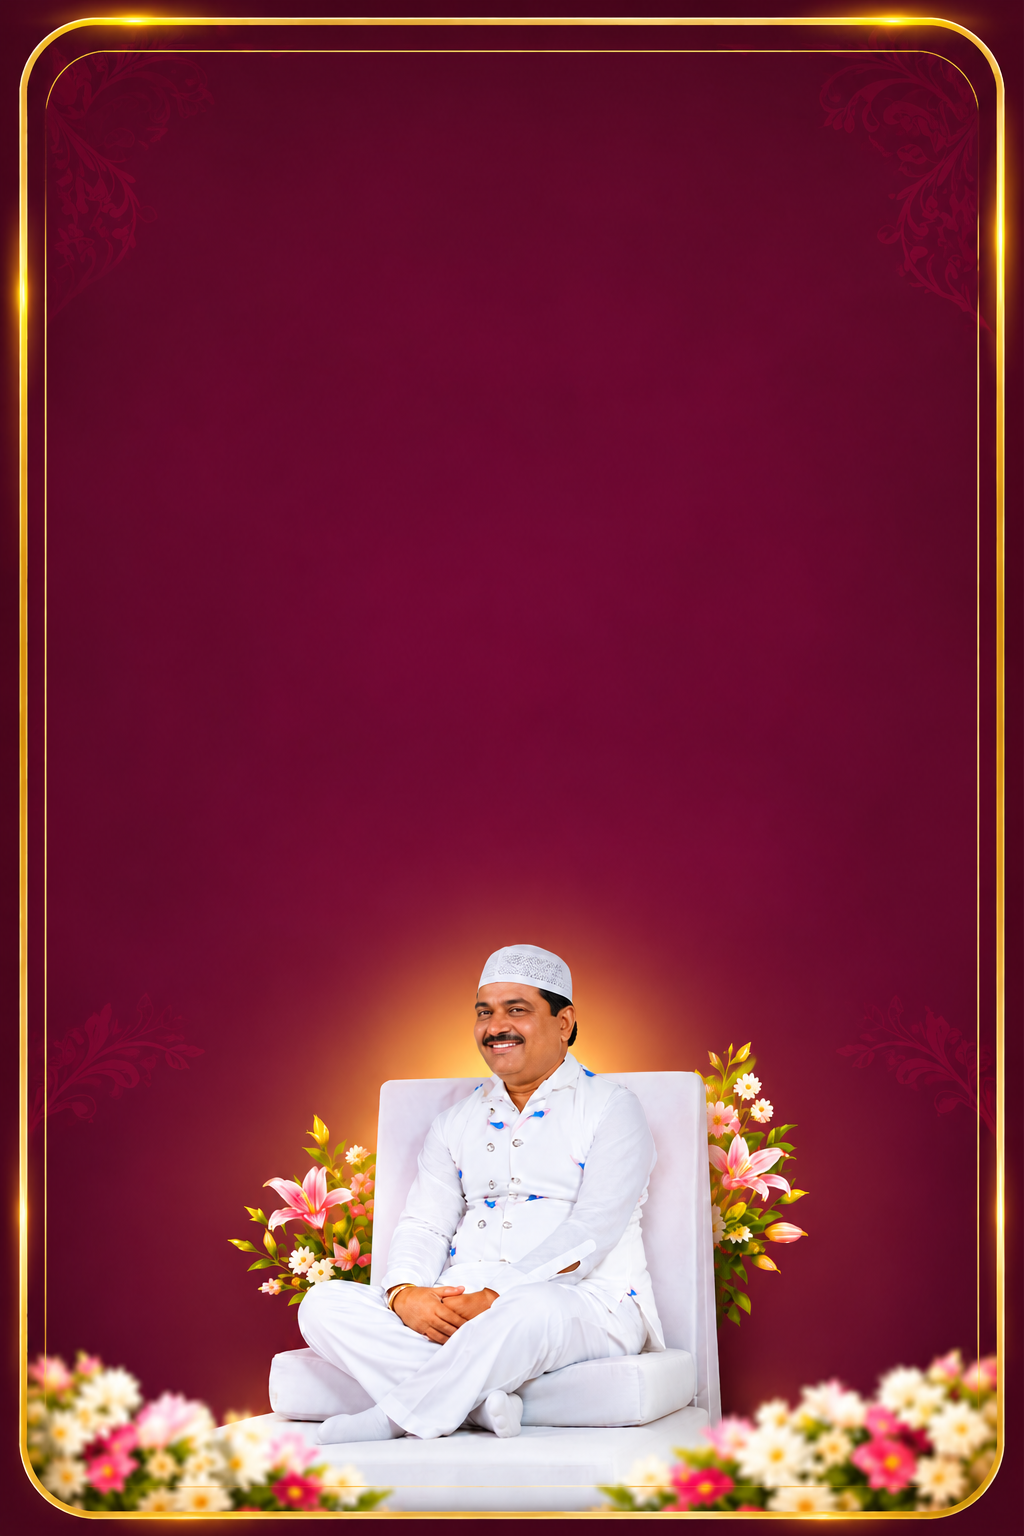
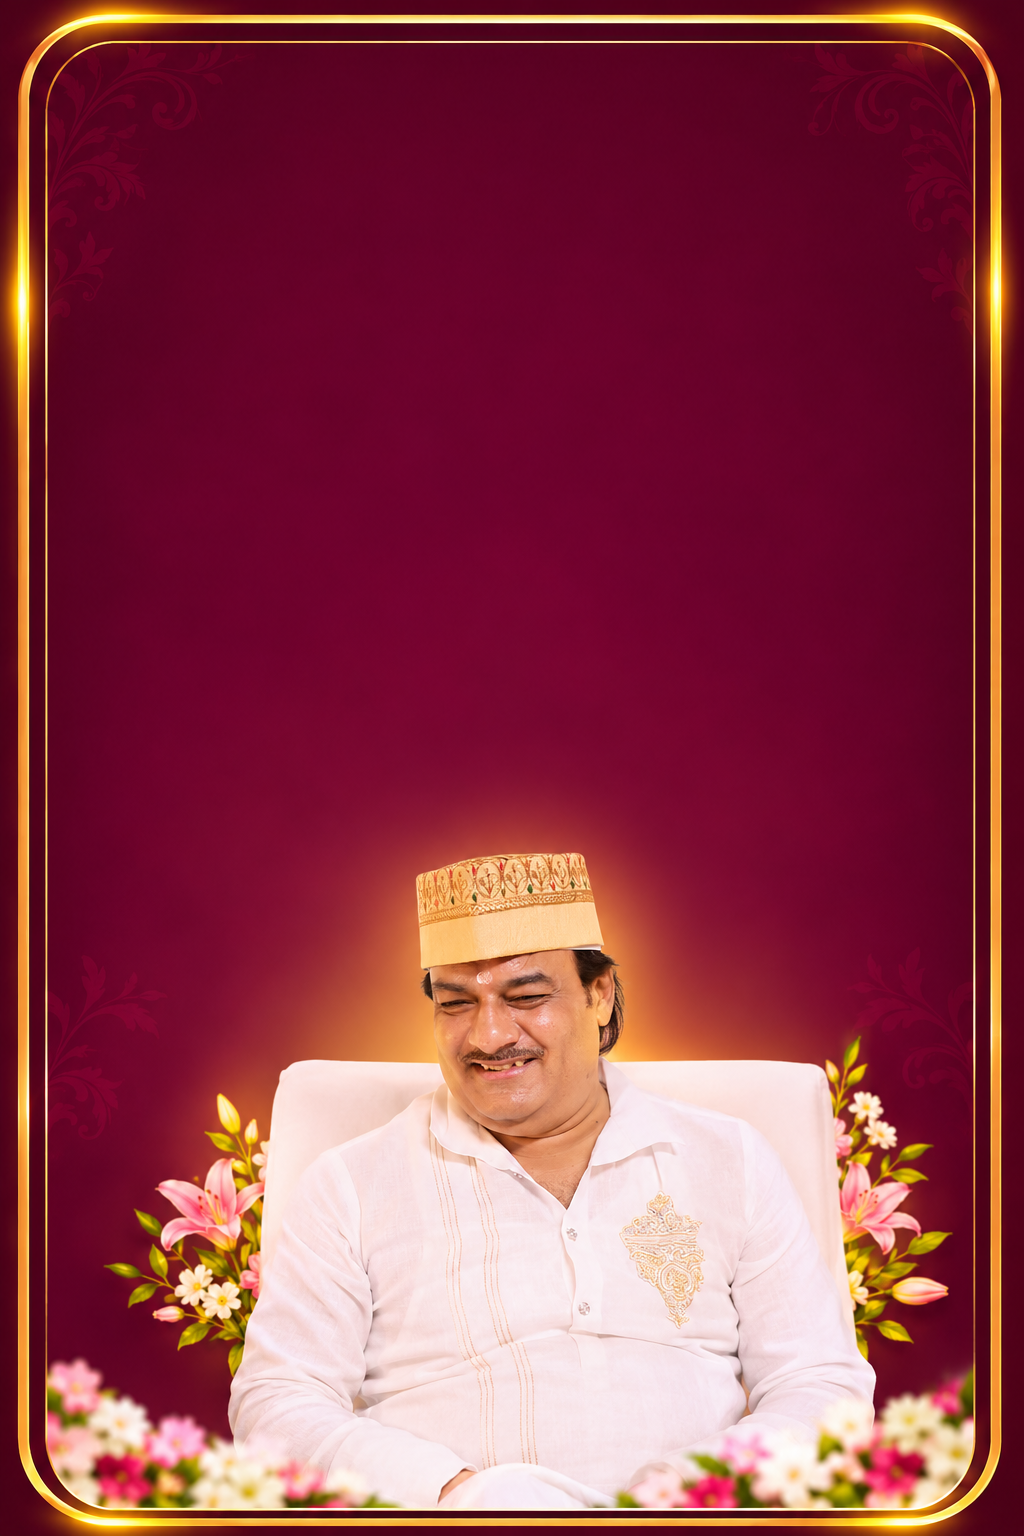
feat(sanchita): update first event with new final portrait image of Satguru Baba Ishwar Shah Sahib Ji

Changed region(s): [[0.0, 0.0, 1.0, 1.0], [0.0938, 0.625, 0.1562, 0.6875], [0.0938, 0.125, 0.125, 0.1562]]

diff --git a/invitations/sanchita-weds-dharmendhra/index.html b/invitations/sanchita-weds-dharmendhra/index.html
@@ -289,7 +289,7 @@
         <!-- Event Card 1: Hare Madhav Satsang -->
         <div class="group relative aspect-[9/15] sm:aspect-[9/14] min-h-[560px] rounded-[30px] overflow-hidden shadow-2xl border-2 border-[#C5A059] scroll-reveal transition-all duration-500 hover:scale-[1.01] hover:shadow-[0_20px_50px_rgba(197,160,89,0.25)] flex flex-col justify-between">
           <!-- Themed Background Image (Satguru Baba Ishwar Shah Sahib Ji / Hare Madhav Satsang) -->
-          <img src="assets/event1-final.png" alt="Hare Madhav Satsang Background" class="absolute inset-0 w-full h-full object-cover object-bottom z-0 pointer-events-none transform group-hover:scale-105 transition-transform duration-700" loading="lazy" decoding="async" />
+          <img src="assets/event1-final.png?v=3" alt="Hare Madhav Satsang Background" class="absolute inset-0 w-full h-full object-cover object-bottom z-0 pointer-events-none transform group-hover:scale-105 transition-transform duration-700" loading="lazy" decoding="async" />
 
           <!-- Floating Petals Decorative Layer -->
           <div class="absolute inset-0 pointer-events-none z-20 overflow-hidden select-none">
